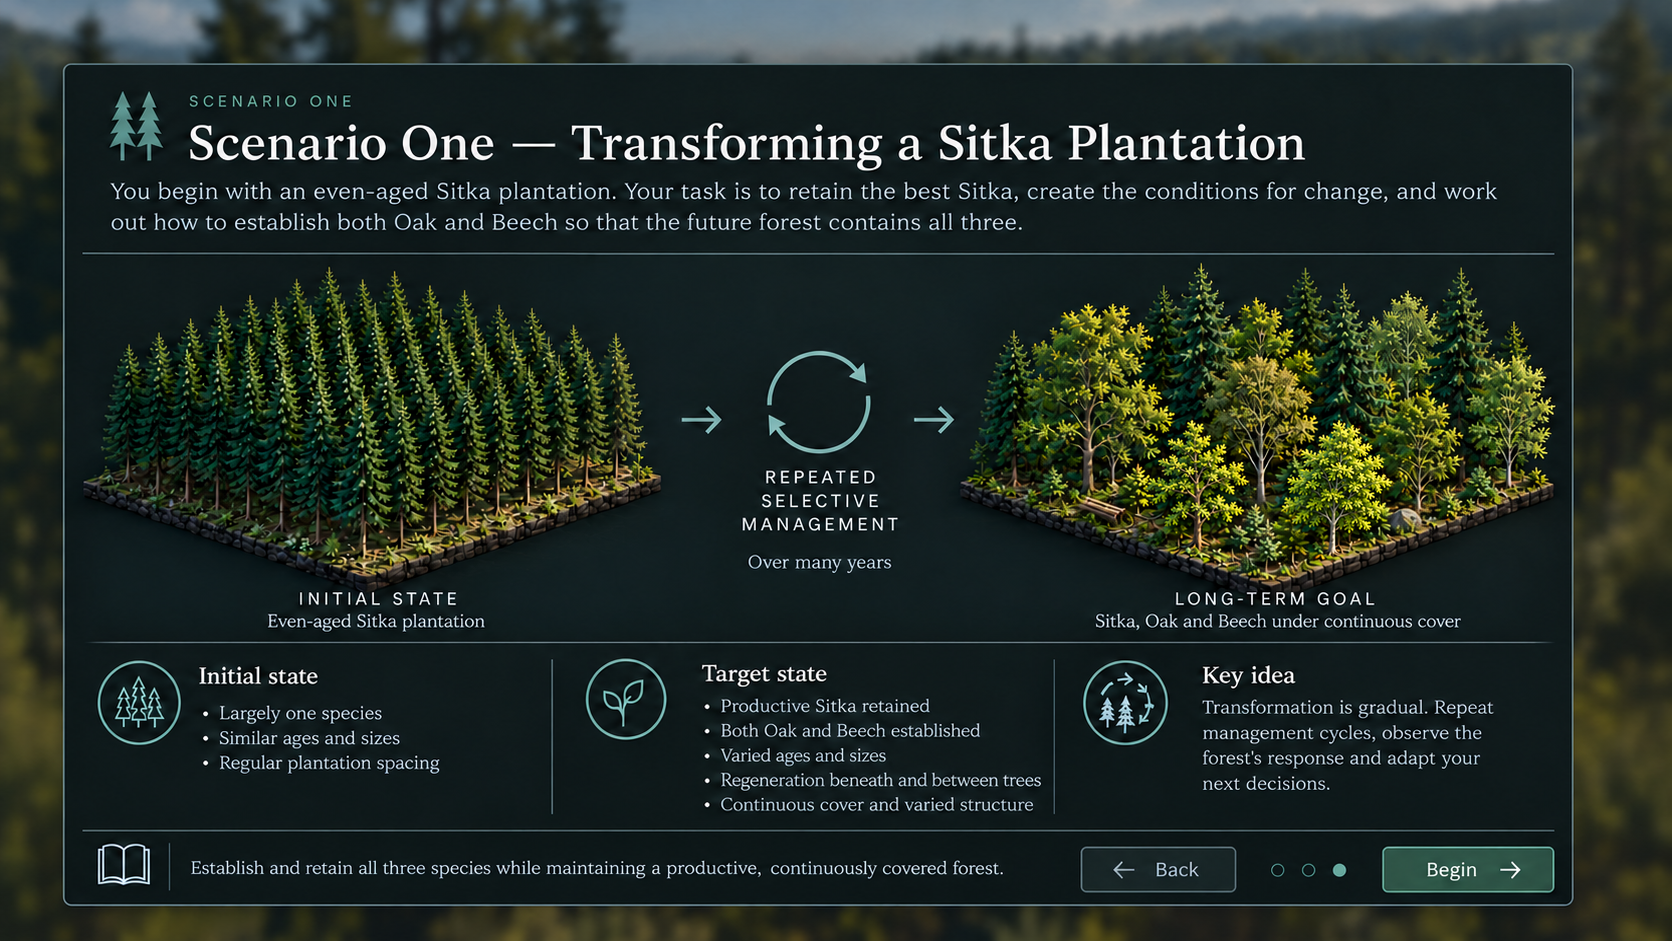
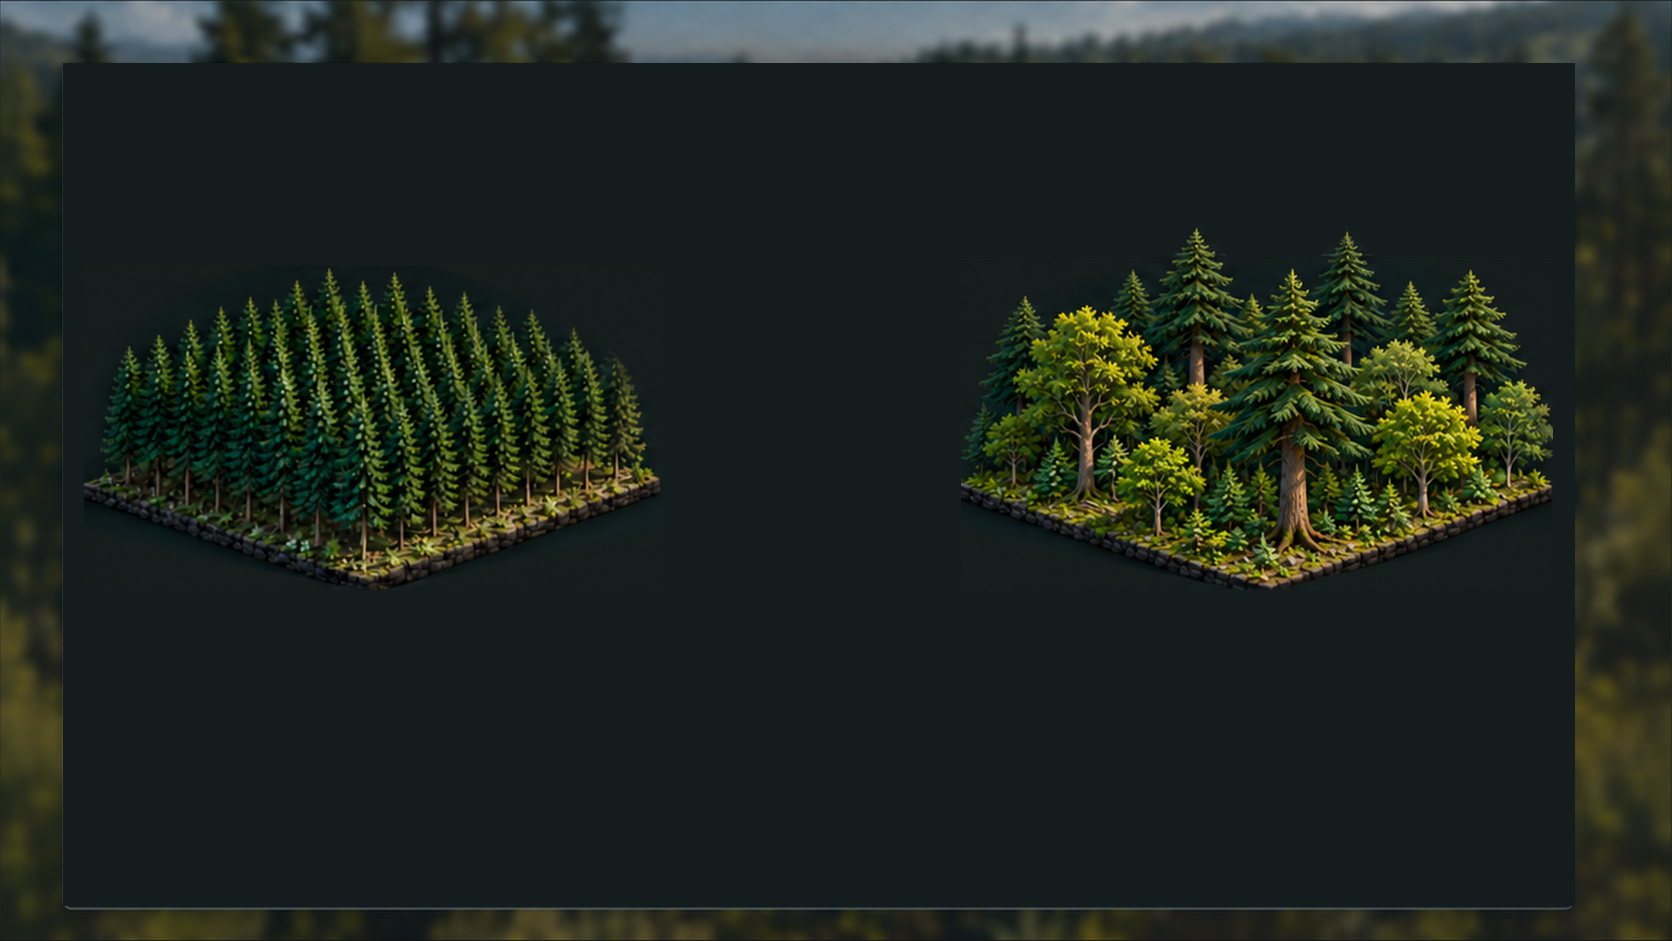
Refresh Scenario One introduction with approved November artwork and copy

diff --git a/Assets/ForestPrototype/UI/ScenarioOneOnboardingView.cs b/Assets/ForestPrototype/UI/ScenarioOneOnboardingView.cs
@@ -3,8 +3,8 @@ using UnityEngine;
 using UnityEngine.UIElements;
 
 // A reference-sized illustration layout scaled uniformly into the UI panel.
-// Text and controls are live UI Toolkit elements. Only forestry pictures, icons
-// and the blurred backdrop are sampled from the frozen reference artwork atlas.
+// Text, icons and controls are live UI Toolkit elements. Only forestry pictures
+// and the blurred backdrop are sampled from the approved art-only atlas.
 public sealed class ScenarioOneOnboardingView
 {
     private const float DesignWidth = 1672f, DesignHeight = 941f;
@@ -81,7 +81,12 @@ public sealed class ScenarioOneOnboardingView
         string lead = ScenarioOneOnboardingCopy.Leads[PageIndex];
         if (PageIndex == 0) lead = lead.Replace("managed. Instead", "managed.\nInstead");
         Text(lead, 112, 179, right - 145, 72, 24);
-        Rule(85, PageIndex == 2 ? 253 : 258, right - 106);
+        if (PageIndex == 0)
+        {
+            var renewal = Text(ScenarioOneOnboardingCopy.Renewal, 112, 247, right - 145, 34, 23, "onboarding-accent");
+            renewal.name = "onboarding-renewal";
+        }
+        Rule(85, PageIndex == 0 ? 291 : PageIndex == 2 ? 253 : 258, right - 106);
         if (PageIndex == 0) Definition();
         else if (PageIndex == 1) Process();
         else Scenario();
@@ -105,7 +110,8 @@ public sealed class ScenarioOneOnboardingView
 
     private void Definition()
     {
-        Art(new Rect(85, 272, 1501, 322));
+        // Reserve a separate text line while retaining all three forest slices.
+        Art(new Rect(85, 272, 1501, 322), destination: new Rect(85, 305, 1501, 289));
         for (int i = 0; i < 3; i++)
         {
             Text(ScenarioOneOnboardingCopy.ProgressionHeadings[i], 90 + i * 505, 598, 490, 25, 16, "onboarding-eyebrow", true);
@@ -136,7 +142,7 @@ public sealed class ScenarioOneOnboardingView
             Text(ScenarioOneOnboardingCopy.ProcessHeadings[i], x + 89, 300, w - 100, 62, 23);
             Art(new Rect(x + 1, 365, w - 2, 312));
             Icon(new[] { "observe", "retain", "logs", "sprout", "chart" }[i], x + 15, 706, 64, 63, false);
-            Text(ScenarioOneOnboardingCopy.ProcessStatements[i], x + (i == 3 ? 90 : 104), 683, w - (i == 3 ? 99 : 115), 110, i == 3 ? 16 : 18);
+            Text(ScenarioOneOnboardingCopy.ProcessStatements[i], x + (i == 3 ? 90 : 104), 683, w - (i == 3 ? 99 : 115), 110, 18);
             if (i < 4) Text("›", x + w - 4, 480, 28, 55, 51, "onboarding-accent", true);
         }
     }
@@ -148,10 +154,14 @@ public sealed class ScenarioOneOnboardingView
             new Vector2(180, 0), new Vector2(340, 0), new Vector2(425, 40), new Vector2(500, 90),
             new Vector2(550, 145), new Vector2(580, 225), new Vector2(580, 255), new Vector2(290, 326), new Vector2(0, 255)
         });
-        Art(new Rect(961, 264, 592, 326), new[] {
-            new Vector2(0, 225), new Vector2(24, 150), new Vector2(70, 70), new Vector2(135, 25),
-            new Vector2(215, 0), new Vector2(460, 0), new Vector2(520, 70), new Vector2(565, 130),
-            new Vector2(592, 225), new Vector2(592, 255), new Vector2(296, 326), new Vector2(0, 255)
+        // The new mature Sitka reach higher than the old illustration. Include their
+        // full crowns, keeping the surrounding lead text outside the art frame.
+        Art(new Rect(961, 225, 592, 365), new[] {
+            new Vector2(0, 260), new Vector2(24, 190), new Vector2(65, 65), new Vector2(110, 92),
+            new Vector2(160, 55), new Vector2(200, 80), new Vector2(238, 0), new Vector2(285, 55),
+            new Vector2(320, 75), new Vector2(385, 0), new Vector2(435, 75), new Vector2(510, 40),
+            new Vector2(555, 105), new Vector2(592, 260), new Vector2(592, 295),
+            new Vector2(296, 365), new Vector2(0, 295)
         });
         // Only the cycle artwork is sampled; its explanatory words remain live labels.
         Icon("cycle", 765, 349, 108, 108, false);
@@ -228,15 +238,16 @@ public sealed class ScenarioOneOnboardingView
         Place(icon, x, y, width, height); canvas.Add(icon);
     }
 
-    private void Art(Rect source, Vector2[] contour = null)
+    private void Art(Rect source, Vector2[] contour = null, Rect? destination = null)
     {
         var picture = new ArtworkRegion(artwork, source, contour);
-        Place(picture, source.x, source.y, source.width, source.height);
+        Rect target = destination ?? source;
+        Place(picture, target.x, target.y, target.width, target.height);
         canvas.Add(picture);
     }
 
-    // Texture UVs preserve the exact approved illustrations without re-encoding,
-    // duplicating crops or rasterising the interface's text/buttons into an image.
+    // Texture UVs select the approved forest crops; all interface text/buttons
+    // are separate live elements. Atlas preparation/provenance is recorded in the spec.
     private sealed class ArtworkRegion : VisualElement
     {
         private readonly Texture2D texture;

diff --git a/Tools/Verification/ScenarioOneThreePageOnboarding/prepare_20261103_art.py b/Tools/Verification/ScenarioOneThreePageOnboarding/prepare_20261103_art.py
@@ -1,0 +1,61 @@
+#!/usr/bin/env python3
+"""Extract approved art regions, without generating/repainting forest content.
+
+Input screenshots remain immutable. Runtime atlases contain only the blurred
+outside margins and forestry regions; titles, captions and controls are omitted.
+"""
+import hashlib
+import json
+from pathlib import Path
+from PIL import Image, ImageDraw
+
+ROOT = Path(__file__).resolve().parents[3]
+REF = ROOT / 'specs/scenario-one-three-page-onboarding-v1/references'
+GAME = (156, 122, 1517, 886)
+SIZE = (1672, 941)
+REGIONS = {
+    1: [(85, 272, 1586, 594)],
+    2: [(86, 365, 381, 677), (400, 365, 685, 677),
+        (703, 365, 983, 677), (1003, 365, 1278, 677), (1297, 365, 1586, 677)],
+    3: [(83, 264, 663, 590), (961, 225, 1553, 590)],
+}
+
+def sha(path):
+    return hashlib.sha256(path.read_bytes()).hexdigest()
+
+def main():
+    records = []
+    for page in range(1, 4):
+        original = REF / f'20261103-page-{page}-approved.png'
+        source = Image.open(original).convert('RGB')
+        assert source.size == SIZE
+        game = source.crop(GAME).resize(SIZE, Image.Resampling.LANCZOS)
+        atlas = Image.new('RGB', SIZE, (21, 28, 30))
+        # Keep only the outside backdrop. A live opaque panel covers its boundary.
+        right, bottom = (1574, 905) if page == 3 else (1607, 891)
+        margins = [(0, 0, 1672, 63), (0, bottom + 1, 1672, 941),
+                   (0, 63, 63, bottom + 1), (right + 1, 63, 1672, bottom + 1)]
+        for box in margins + REGIONS[page]:
+            atlas.paste(game.crop(box), box)
+        if page == 3:
+            # Only the two mature Sitka tips rise above the divider. Exclude the
+            # neighbouring live lead sentence and divider from the runtime atlas.
+            mask = Image.new('L', (592, 31), 0)
+            pen = ImageDraw.Draw(mask)
+            pen.polygon([(238, 0), (211, 31), (266, 31)], fill=255)
+            pen.polygon([(385, 0), (359, 31), (412, 31)], fill=255)
+            tips = game.crop((961, 225, 1553, 256))
+            clean = Image.new('RGB', tips.size, (21, 28, 30))
+            clean.paste(tips, (0, 0), mask)
+            atlas.paste(clean, (961, 225))
+        destination = ROOT / f'Assets/ForestPrototype/UI/Resources/Onboarding/page-{page}.png'
+        atlas.save(destination, optimize=True)
+        records.append(dict(page=page, source=original.name, source_sha256=sha(original),
+                            game_crop=list(GAME), atlas_size=list(SIZE), regions=REGIONS[page],
+                            atlas=str(destination.relative_to(ROOT)), atlas_sha256=sha(destination),
+                            atlas_bytes=destination.stat().st_size))
+    (REF / '20261103-art-manifest.json').write_text(json.dumps(records, indent=2) + '\n')
+    print(json.dumps(records, indent=2))
+
+if __name__ == '__main__':
+    main()

diff --git a/Tools/Verification/ScenarioOneThreePageOnboarding/make_comparisons.py b/Tools/Verification/ScenarioOneThreePageOnboarding/make_comparisons.py
@@ -10,6 +10,7 @@ def main():
     parser = argparse.ArgumentParser(description=__doc__)
     parser.add_argument('--renders', type=Path, required=True)
     parser.add_argument('--out', type=Path, required=True)
+    parser.add_argument('--refresh-20261103', action='store_true', help='Compare to the new approved game-area screenshots')
     args = parser.parse_args()
     tools = Path(__file__).resolve().parent
     repository = tools.parents[2]
@@ -17,12 +18,12 @@ def main():
     compositor = importlib.util.module_from_spec(spec)
     spec.loader.exec_module(compositor)
     references = repository / 'specs/scenario-one-three-page-onboarding-v1/references'
-    locks = json.loads((references / 'final-hashes.json').read_text())
+    locks = json.loads((references / ('20261103-art-manifest.json' if args.refresh_20261103 else 'final-hashes.json')).read_text())
     prepared = []
     for page in range(1, 4):
-        reference = references / ('page-%d-locked.png' % page)
+        reference = references / (locks[page - 1]['source'] if args.refresh_20261103 else 'page-%d-locked.png' % page)
         reference_hash = compositor.sha256(reference)
-        assert reference_hash == locks[page - 1]['sha256'], 'Final reference changed'
+        assert reference_hash == locks[page - 1]['source_sha256' if args.refresh_20261103 else 'sha256'], 'Final reference changed'
         for size in ['1280x720', '1920x1080']:
             actual = args.renders / ('page-%d-%s.png' % (page, size))
             assert actual.is_file(), 'Missing real Unity render: ' + str(actual)
@@ -33,7 +34,10 @@ def main():
     records = []
     for page, size, reference, reference_hash, actual, rendered in prepared:
         actual_hash = compositor.sha256(actual)
-        sheet = compositor.build_sheet(compositor.load_rgb(reference, 'locked reference'), rendered,
+        reference_image = compositor.load_rgb(reference, 'locked reference')
+        if args.refresh_20261103:
+            reference_image = reference_image.crop(tuple(locks[page - 1]['game_crop']))
+        sheet = compositor.build_sheet(reference_image, rendered,
                                        reference.name, reference_hash, actual.name, actual_hash)
         destination = args.out / ('page-%d-%s-comparison.png' % (page, size))
         sheet.save(destination)

diff --git a/Tools/Verification/ScenarioOneThreePageOnboarding/OnboardingVerification.cs b/Tools/Verification/ScenarioOneThreePageOnboarding/OnboardingVerification.cs
@@ -217,6 +217,29 @@ public sealed class OnboardingVerificationRunner : MonoBehaviour
     private IEnumerator Capture(int page, Vector2Int size)
     {
         if (page == 3) CheckScenarioRow();
+        VisualElement root = ui.Help.Onboarding.Root;
+        Button next = root.Q<Button>("onboarding-next");
+        Check(next.enabledInHierarchy && next.focusable, "LIVE_ENABLED_PRIMARY_ACTION page=" + page);
+        if (page == 1)
+        {
+            Label renewal = root.Q<Label>("onboarding-renewal");
+            const string required = "The forest is renewed gradually over time, creating a mixed-aged, more resilient and productive woodland.";
+            Check(renewal != null && renewal.text == required, "PAGE1_EXACT_RENEWAL_SENTENCE");
+            Label heading = root.Query<Label>(className: "onboarding-eyebrow").First();
+            Check(renewal != null && renewal.resolvedStyle.color == heading.resolvedStyle.color, "PAGE1_EXISTING_HEADING_ACCENT");
+            Label lead = root.Query<Label>().ToList().First(l => l.text.StartsWith("Continuous-cover forestry"));
+            Check(renewal != null && renewal.worldBound.y >= lead.worldBound.y +
+                lead.MeasureTextSize(lead.text, lead.contentRect.width, VisualElement.MeasureMode.Exactly, 0, VisualElement.MeasureMode.Undefined).y *
+                (lead.worldBound.height / lead.layout.height), "PAGE1_RENEWAL_BELOW_OPENING_COPY");
+        }
+        if (page == 2)
+        {
+            const string required = "Encourage natural regeneration and establish other species for a diverse forest.";
+            Label statement = root.Query<Label>().ToList().FirstOrDefault(l => l.text == required);
+            var cards = root.Query<VisualElement>(className: "onboarding-card").ToList();
+            Check(statement != null && cards.Count == 5 && cards[3].worldBound.Contains(statement.worldBound.min) &&
+                cards[3].worldBound.Contains(statement.worldBound.max), "PAGE2_CARD4_EXACT_COPY_INSIDE_CARD");
+        }
         yield return new WaitForEndOfFrame();
         Texture2D image = ScreenCapture.CaptureScreenshotAsTexture();
         Check(image != null && image.width == size.x && image.height == size.y, "ACTUAL_CAPTURE_SIZE_" + page + "_" + size);

diff --git a/Assets/ForestPrototype/UI/ScenarioOneOnboardingCopy.cs b/Assets/ForestPrototype/UI/ScenarioOneOnboardingCopy.cs
@@ -12,6 +12,7 @@ public static class ScenarioOneOnboardingCopy
         "CCF is a cycle of decisions, observation and adaptation. Retain continuous forest cover as you create space for new generations and review how the stand develops.",
         "You begin with an even-aged Sitka plantation. Your task is to retain the best Sitka, create the conditions for change, and work out how to establish both Oak and Beech so that the future forest contains all three."
     };
+    public const string Renewal = "The forest is renewed gradually over time, creating a mixed-aged, more resilient and productive woodland.";
     public static readonly string[] Footers = {
         "CCF is a long-term process of repeated decisions, observation and adaptation.",
         "Retained trees, regeneration and varied ages and sizes build a continuously covered forest over time.",
@@ -31,7 +32,7 @@ public static class ScenarioOneOnboardingCopy
         "Read its structure, regeneration and growing conditions.",
         "Keep productive trees and select competing trees for removal.",
         "Remove selected competitors to make suitable conditions for young trees.",
-        "Encourage natural regeneration and establish other species, combining productive conifers with broadleaf diversity.",
+        "Encourage natural regeneration and establish other species for a diverse forest.",
         "Observe the response, adapt decisions and repeat management over many years."
     };
     public const string InitialState = "Largely one species\nSimilar ages and sizes\nRegular plantation spacing";

diff --git a/Assets/ForestPrototype/UI/OnboardingIcon.cs b/Assets/ForestPrototype/UI/OnboardingIcon.cs
@@ -29,7 +29,7 @@ public sealed class OnboardingIcon : VisualElement
         {
             case "brand": Tree(26, 10, 68, true); Tree(73, 10, 68, true); break;
             case "trees": Tree(30, 35, 40); Tree(51, 22, 49); Tree(72, 37, 39); break;
-            case "retain": Tree(30, 18, 68); Leaf(61, 51, 1.1f); break;
+            case "retain": Tree(30, 8, 68); Path(false, 53, 79, 64, 93, 91, 59); break;
             case "leaf":
                 Path(true, 30, 64, 32, 46, 45, 33, 72, 25, 67, 53, 54, 66, 30, 64);
                 Path(false, 24, 76, 64, 37); Path(false, 42, 59, 42, 44); Path(false, 49, 52, 63, 52); break;
@@ -54,6 +54,7 @@ public sealed class OnboardingIcon : VisualElement
                 Path(false, 57, 58, 64, 24, 81, 24, 91, 56); Path(false, 43, 46, 57, 46); break;
             case "logs":
                 Ring(28, 68, 17); Ring(58, 76, 17); Ring(27, 37, 14);
+                Ring(28, 68, 7); Ring(58, 76, 7); Ring(27, 37, 6);
                 Path(false, 17, 23, 63, 3, 79, 5, 84, 16, 83, 28, 43, 50);
                 Path(false, 36, 54, 78, 34, 91, 35, 97, 48, 91, 61, 72, 72); break;
             case "chart":

diff --git a/specs/scenario-one-three-page-onboarding-v1/references/20261103-reference-addendum.md b/specs/scenario-one-three-page-onboarding-v1/references/20261103-reference-addendum.md
@@ -1,0 +1,13 @@
+# Approved 3 November 2026 visual refresh — task #243
+
+Authority: user's latest three attachments and exact Page 1 sentence, with the Manager handoff at `Docs/Handoffs/ScenarioOne-Intro-Astra-Visual-Refresh-20261103/HANDOFF.md` on GitHub main. This supersedes the 25 October presentation only; old references/manifests remain unchanged history. The earlier ZIP hashes in the handoff do not describe these newer originals.
+
+`20261103-art-manifest.json` records the actual selected source hashes, crop coordinates and runtime atlas hashes. Original supplied PNGs are retained byte-for-byte as `20261103-page-{1,2,3}-approved.png`. Provenance: user-supplied approved Astra-generated illustrations; no third-party licensing claim is made.
+
+Asset brief: these are explanatory forest illustrations, not simulated outcomes or empirical predictions. Page 1 shows uniform Sitka → retained mature trees with regeneration → developed mixed structure. Page 2 shows the five management stages and Oak/Beech establishment. Page 3 contrasts a uniform plantation with productive retained mature Sitka, broadleaves and regeneration. Scale is screen-relative, not metres. Three existing UI atlases, no 3D variants/LOD, no new packages or materials. Target: unchanged three-texture UI architecture and responsive live controls at 1280×720 and 1920×1080. Acceptance requires six real Unity renders plus navigation/Continue and text-fit checks.
+
+Preparation is deterministic crop/resampling, not image regeneration: run `python3 Tools/Verification/ScenarioOneThreePageOnboarding/prepare_20261103_art.py`. It removes Editor/taskbar chrome, maps only the game area to the existing 1672×941 layout, and retains only outside blurred margins and forest regions in runtime atlases. The two high Sitka tips on Page 3 are retained while neighbouring raster lead text is excluded. Runtime titles, captions, process icons, numbers, labels and buttons remain live UI Toolkit/Painter2D. Existing `.meta` GUIDs and V2 palette/fonts remain unchanged.
+
+Page 1's exact new sentence uses the existing `onboarding-accent` class. A 33-design-pixel gap is reserved above the imagery, whose height is reduced by the same amount without removing any forest slice. Page 2 card 4 uses the approved shorter sentence at the same font size as other cards. The retain icon now has a check mark; log ends have concentric rings. Page 3's art frame includes the new taller retained Sitka crowns.
+
+Runtime atlas bytes/hashes and source dimensions are machine-readable in the accompanying manifest. Final actual Unity evidence, any rendering differences and acceptance status belong to the implementation handoff; this preparation record alone does not claim verification or Manager acceptance.

diff --git a/specs/scenario-one-three-page-onboarding-v1/production-copy.md b/specs/scenario-one-three-page-onboarding-v1/production-copy.md
@@ -9,6 +9,10 @@ Title: What is Continuous-Cover Forestry?
 
 Continuous-cover forestry keeps a forest continuously wooded while it is managed. Instead of clear-felling the whole stand, trees are removed selectively and new generations establish beneath and between those that remain.
 
+Standalone emphasis in the existing blue/teal heading accent (3 November 2026 user amendment):
+
+The forest is renewed gradually over time, creating a mixed-aged, more resilient and productive woodland.
+
 Progression:
 - BEFORE — Even-aged Sitka plantation
 - SELECTIVE TRANSFORMATION — Mature trees retained; openings allow regeneration
@@ -38,7 +42,7 @@ Five-card copy (preserving five supplied cards, combining review/repeat):
 3. Create space and light
    Remove selected competitors to make suitable conditions for young trees.
 4. Regenerate and establish
-   Encourage natural regeneration and establish other species, combining productive conifers with broadleaf diversity.
+   Encourage natural regeneration and establish other species for a diverse forest.
 5. Review and repeat
    Observe the response, adapt decisions and repeat management over many years.
 
